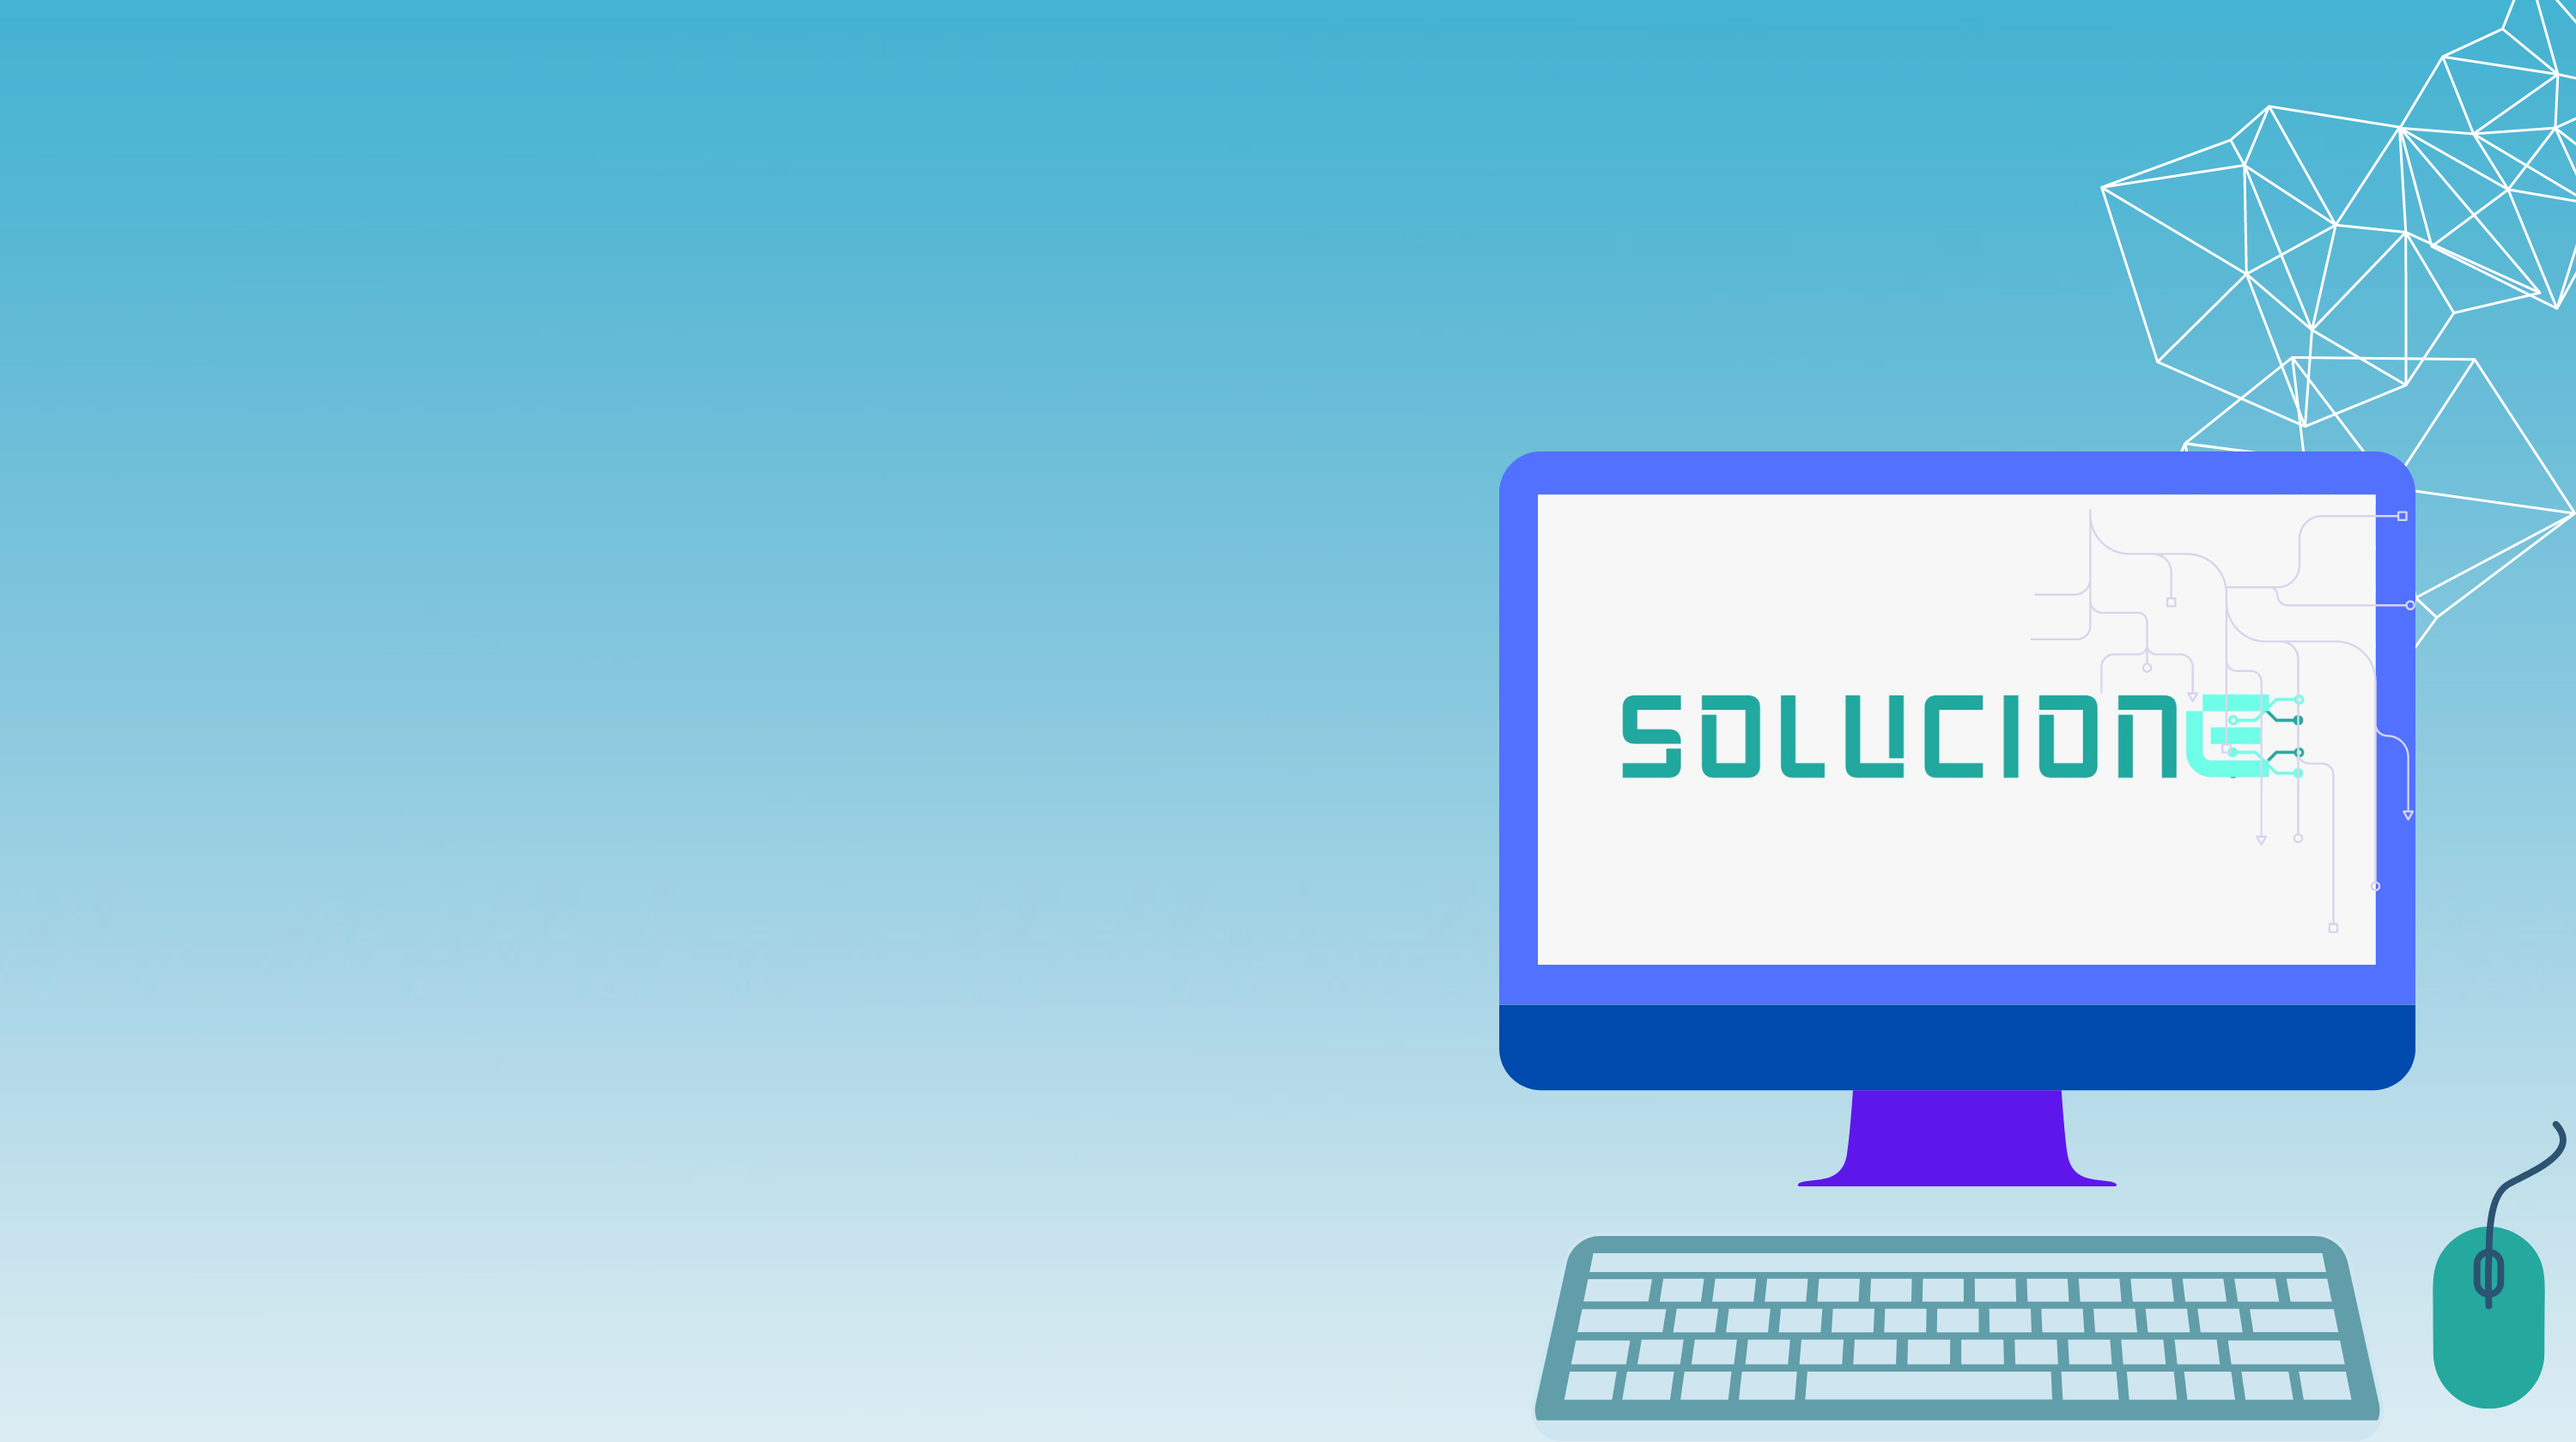
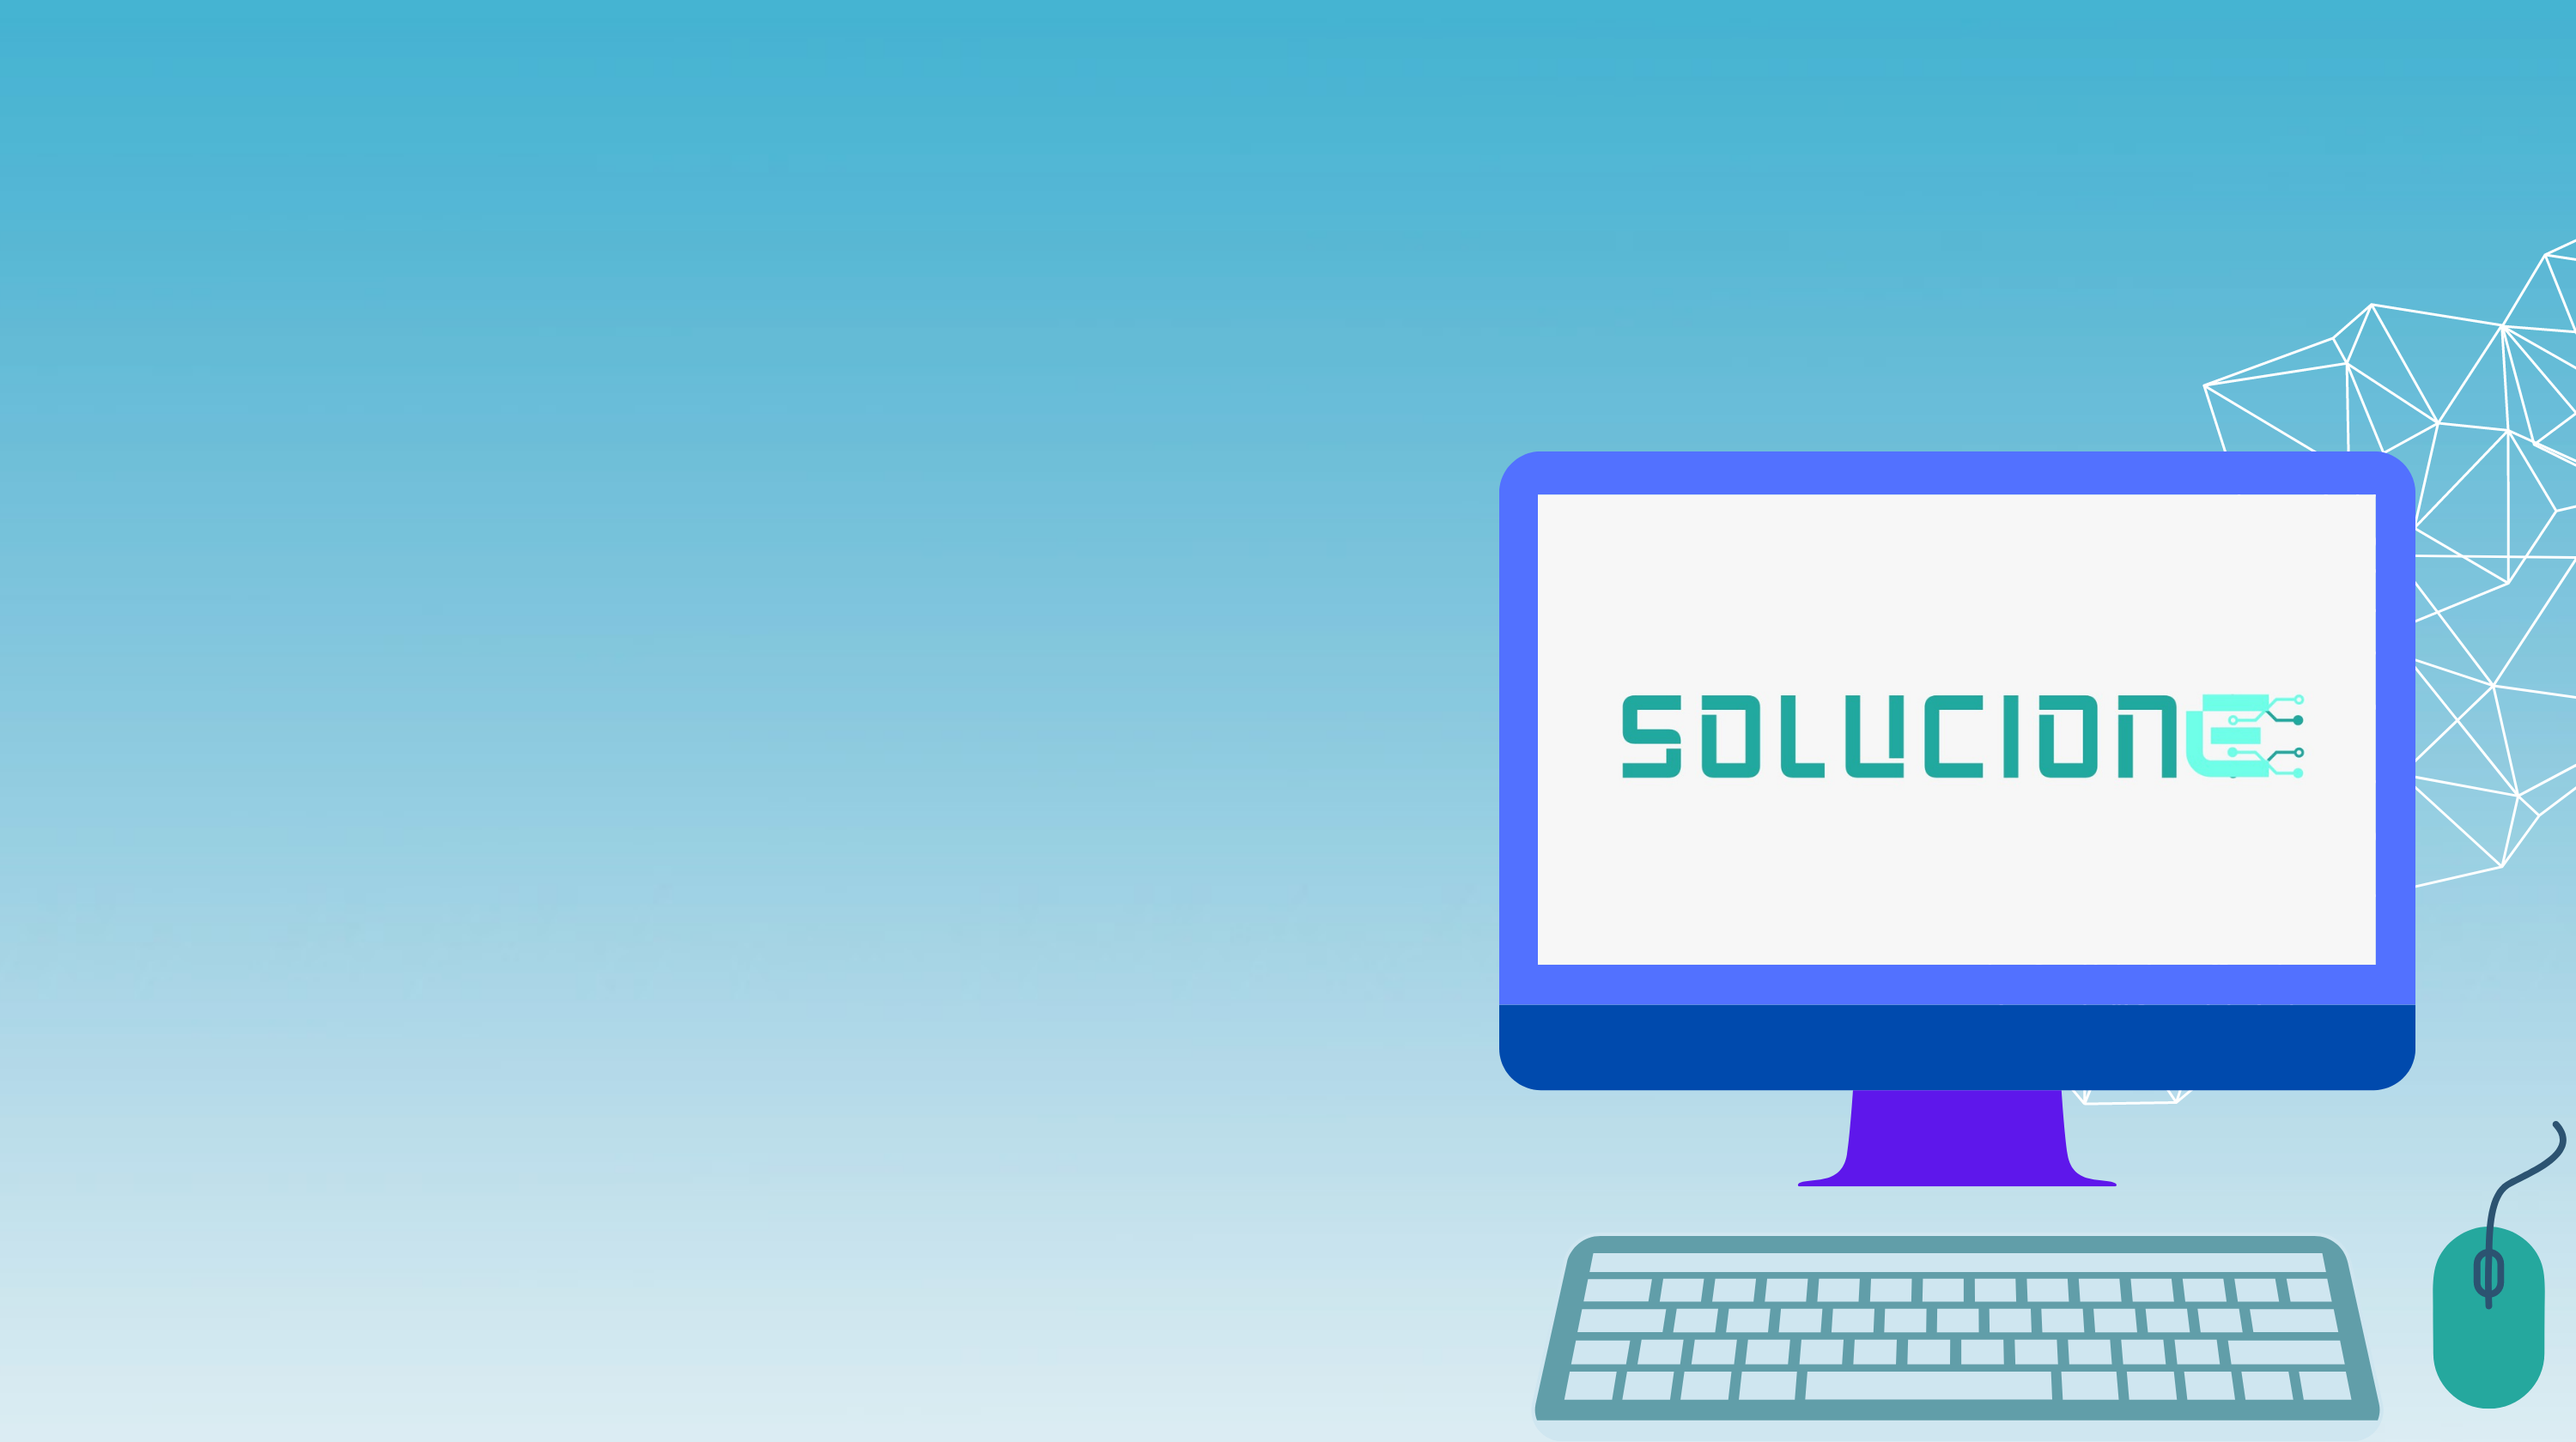
Estilização e alteração de plano de fundo

diff --git a/style.css b/style.css
@@ -6,3 +6,217 @@
     box-sizing: border-box;
     font-family: "Poppins", sans-serif;
 }
+
+section{
+    position: relative;
+    width: 100%;
+    min-height: 100vh;
+    display: flex;
+    flex-direction: column;
+    justify-content: flex-start;
+    background: url(./imagens/fundo.png);
+    background-size:cover ;
+    background-position: center;
+}
+
+header{
+    position: relative;
+    top: 0;
+    width: 100%;
+    padding: 30px 100px;
+    display: flex;
+    justify-content: space-between;
+    align-items: center;
+}
+
+header .logo{
+    position: relative;
+    color: #000;
+    font-size: 30px;
+    text-decoration: none;
+    text-transform: uppercase;
+    font-weight: 800;
+    letter-spacing: 1px;
+}
+
+header .navegacao a{
+    color: #000;
+    background: #fff;
+    text-decoration: none;
+    font-weight: 500;
+    letter-spacing: 1px;
+    padding: 2px 15px;
+    border-radius: 20px;
+}
+
+header .navegacao a:not(:last-child){
+    margin-right: 30px;
+  }
+  
+  header .navegacao a:hover{
+    background: #fff;
+  }
+  
+  .conteudo{
+    max-width: 650px;
+    margin: 60px 100px;
+  }
+  
+  .conteudo .informacao h2{
+    color: #226A80;
+    font-size: 55px;
+    text-transform: uppercase;
+    font-weight: 800;
+    letter-spacing: 2px;
+    line-height: 60px;
+    margin-bottom: 30px;
+  }
+
+  .conteudo .informacao h2 span{
+    color: #fff;
+    font-size: 50px;
+    font-weight: 600;
+  }
+  
+  .conteudo .informacao p{
+    font-size: 16px;
+    font-weight: 500;
+    margin-bottom: 40px;
+  }
+  
+  .conteudo .informacao-btn{
+    color: #fff;
+    background: #226A80;
+    text-decoration: none;
+    text-transform: uppercase;
+    font-weight: 700;
+    letter-spacing: 2px;
+    padding: 10px 20px;
+    border-radius: 5px;
+}
+  
+  .conteudo .informacao-btn:hover{
+    background: #0C4F60;
+  }
+  
+  .icons{
+    display: flex;
+    justify-content: center;
+    align-items: center;
+    margin: auto;
+  }
+  
+  .icons a{
+    position: relative;
+    color: #111;
+    font-size: 25px;
+    transition: 0.3s;
+    transition-property: transform;
+  }
+  
+  .icons a:not(:last-child){
+    margin-right: 60px;
+  }
+  
+  .icons a:hover{
+    transform: scale(1.5);
+  }
+  
+  #check{
+    z-index: 3;
+    display: none;
+  }
+  
+  /* Responsive CSS */
+  
+  @media (max-width: 960px){
+    header .navigation{
+      display: none;
+    }
+  
+    label{
+      display: block;
+      font-size: 25px;
+      cursor: pointer;
+      transition: 0.3s;
+      transition-property: color;
+    }
+  
+    label:hover{
+      color: #fff;
+    }
+  
+    label .close-btn{
+      display: none;
+    }
+  
+    #check:checked ~ header .navigation{
+      z-index: 2;
+      position: fixed;
+      top: 0;
+      bottom: 0;
+      left: 0;
+      right: 0;
+      background: rgba(114, 223, 255, 0.9);
+      display: flex;
+      flex-direction: column;
+      justify-content: center;
+      align-items: center;
+    }
+  
+    #check:checked ~  header .navigation a{
+      font-weight: 700;
+      margin-right: 0;
+      margin-bottom: 50px;
+      letter-spacing: 2px;
+    }
+  
+    #check:checked ~ header label .close-btn{
+      z-index: 2;
+      position: fixed;
+      display: block;
+    }
+  
+    #check:checked ~ header label .menu-btn{
+      display: none;
+    }
+  
+    label .menu-btn{
+      position: absolute;
+    }
+  
+    header .logo{
+      position: absolute;
+      bottom: -6px;
+    }
+  
+    .content .info h2{
+      font-size: 45px;
+      line-height: 50px;
+    }
+  
+    .content .info h2 span{
+      font-size: 40px;
+      font-weight: 600;
+    }
+  
+    .content .info p{
+      font-size: 14px;
+    }
+  }
+  
+  @media (max-width: 560px){
+    .content .info h2{
+      font-size: 35px;
+      line-height: 40px;
+    }
+  
+    .content .info h2 span{
+      font-size: 30px;
+      font-weight: 600;
+    }
+  
+    .content .info p{
+      font-size: 14px;
+    }
+  }
